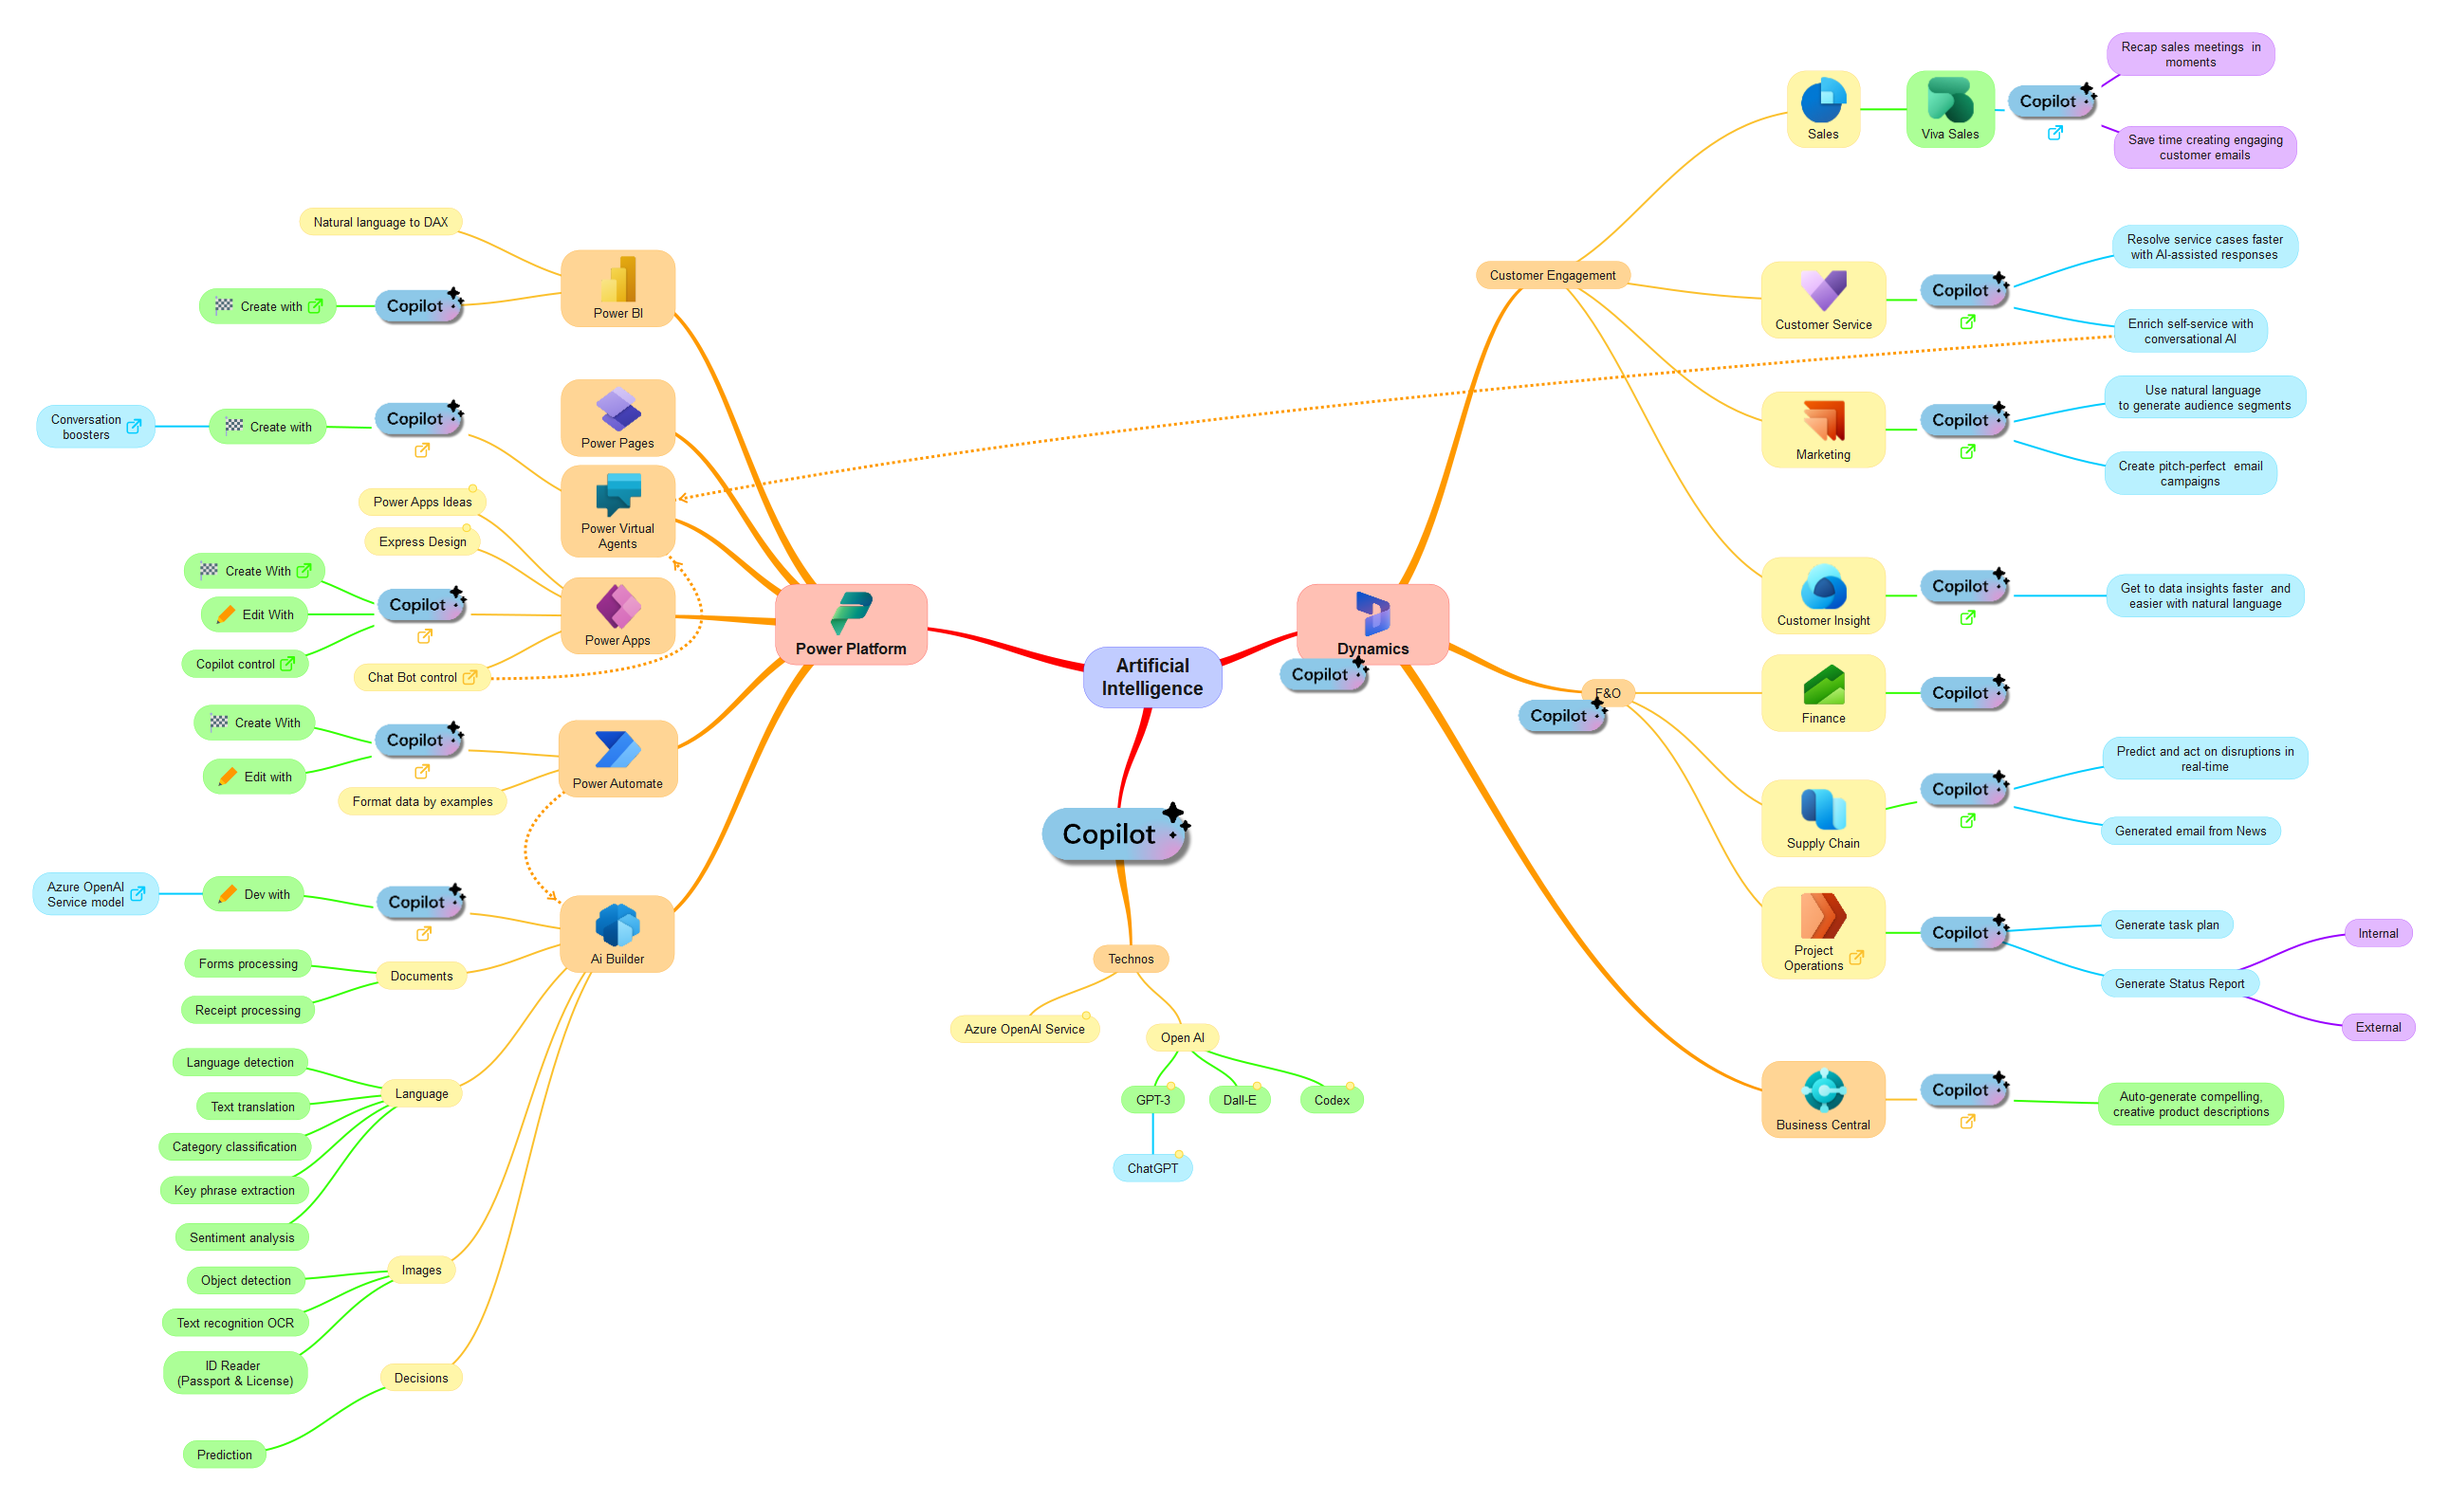
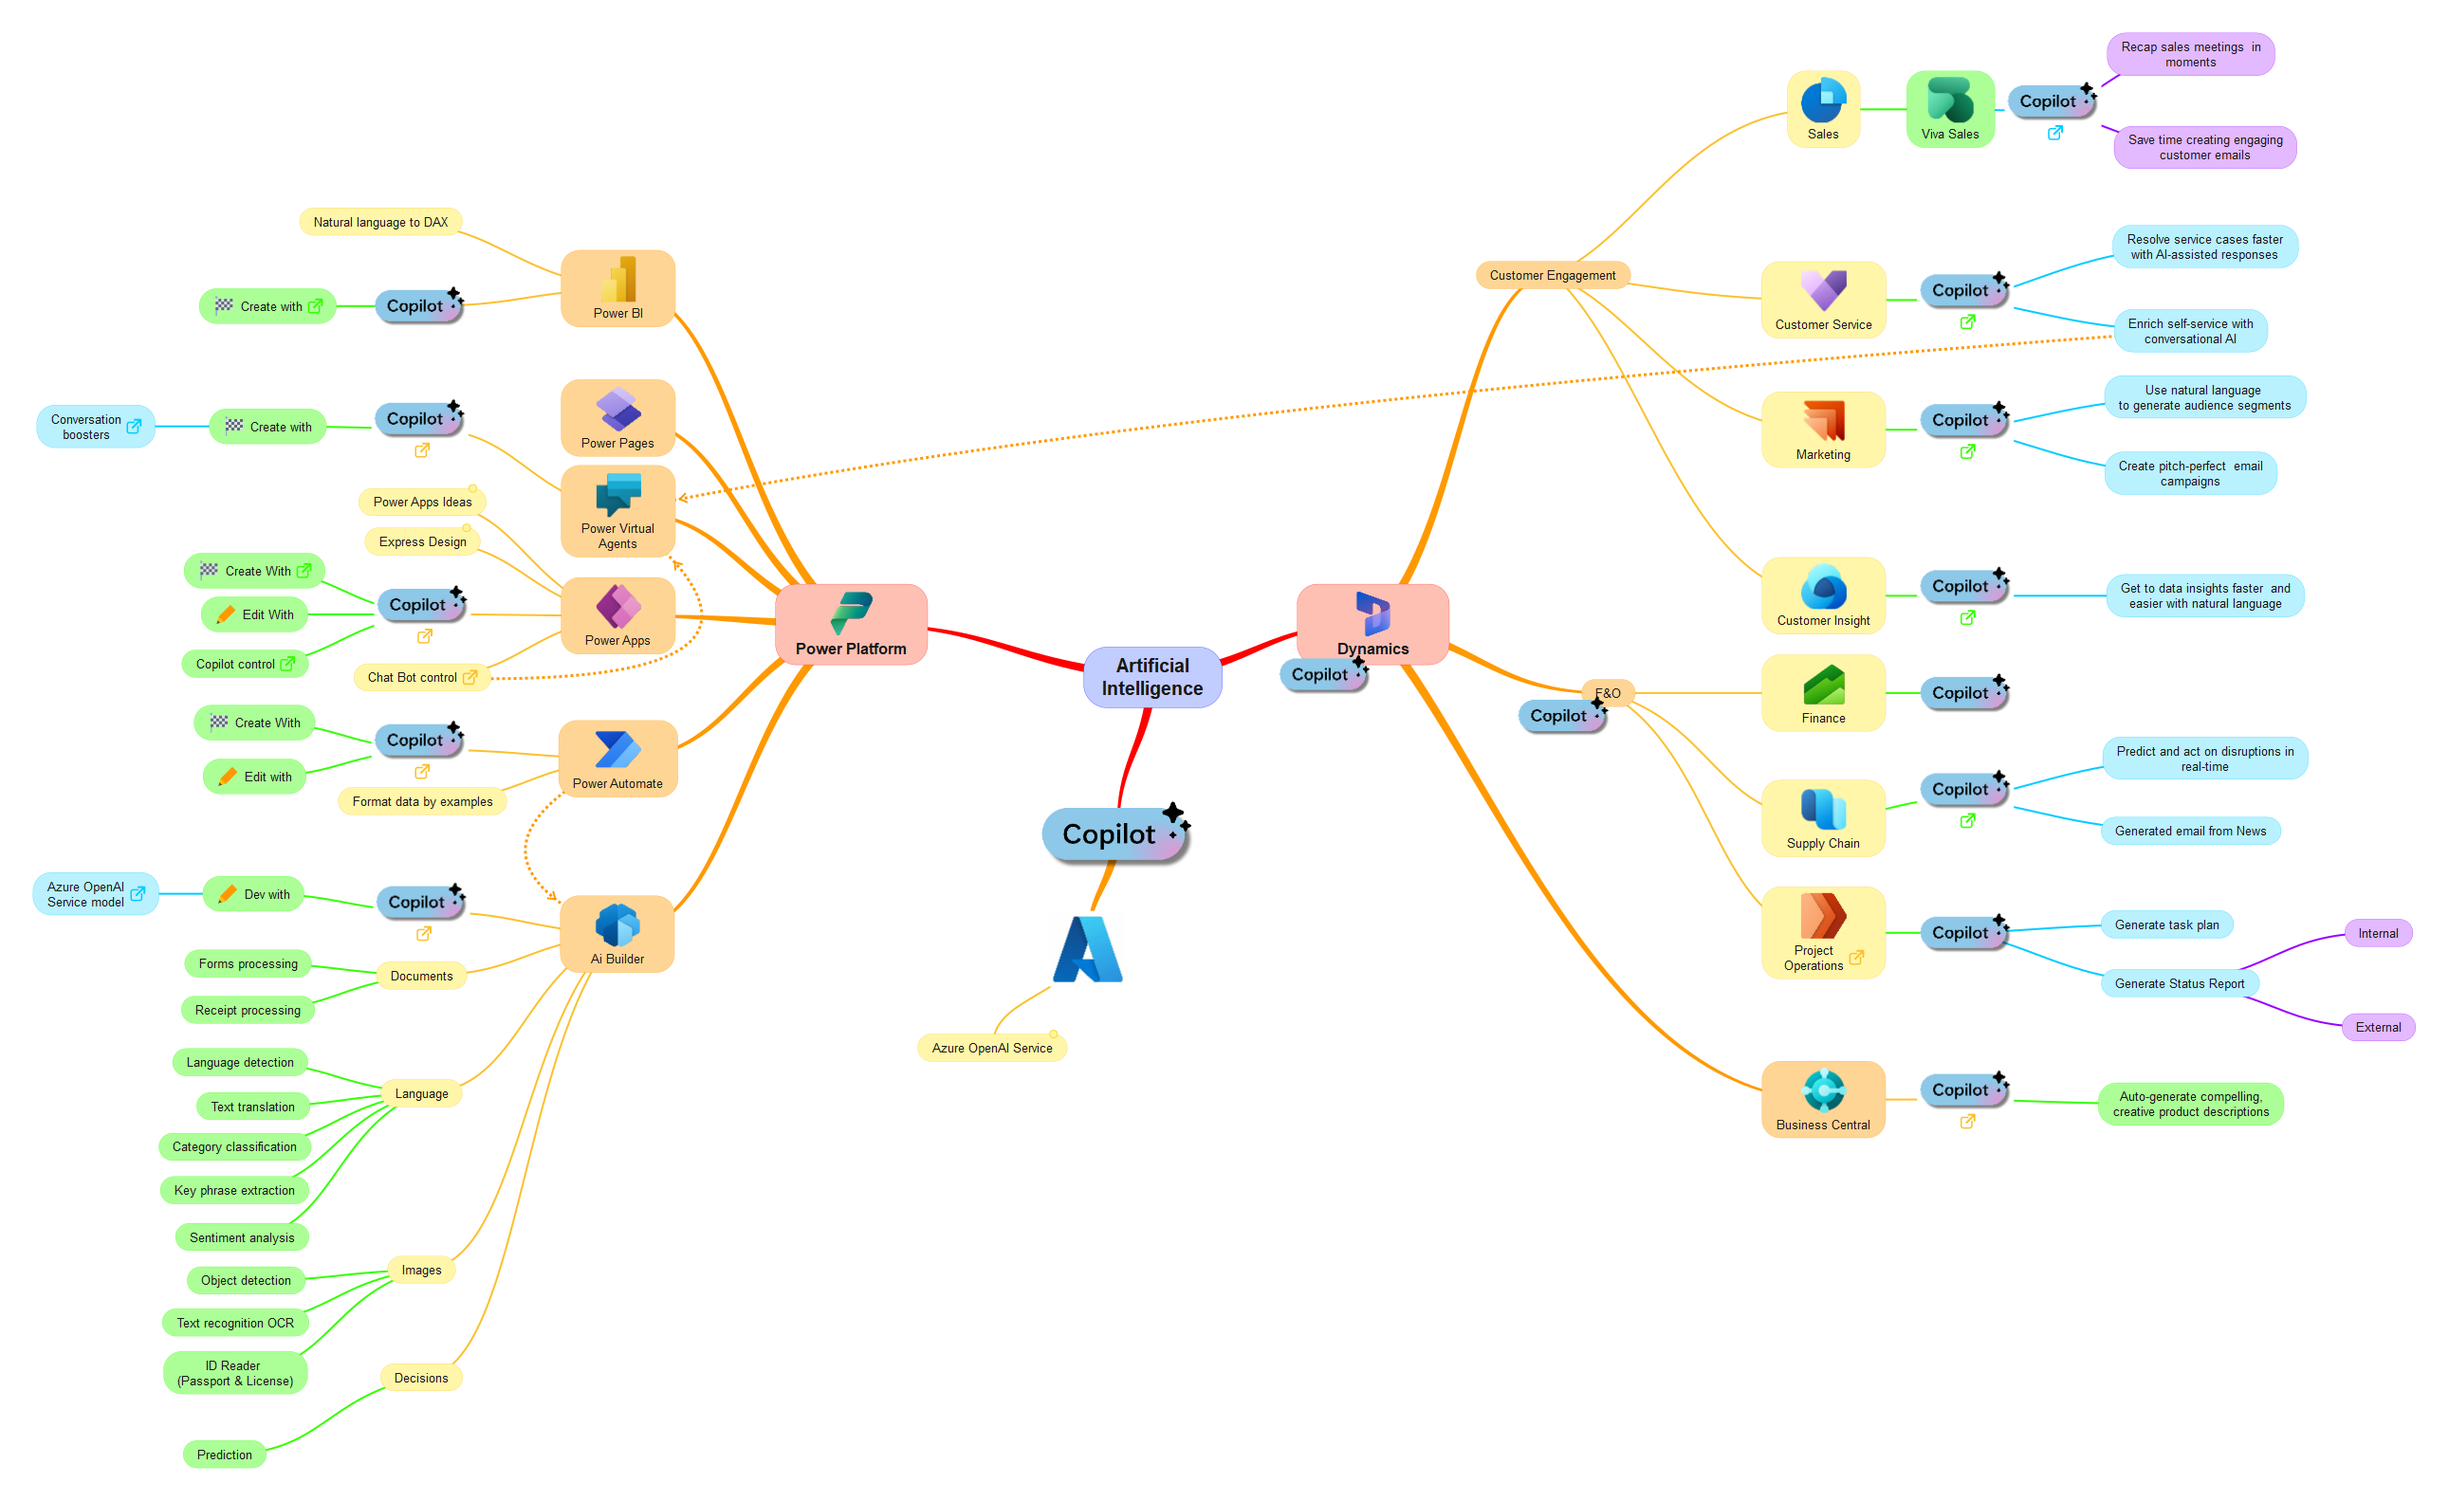
New Version

Changed region(s): [[0.3718, 0.5572, 0.5577, 0.8048]]

diff --git a/mindmap/copilot_with_bizapp/notes/note_3.html b/mindmap/copilot_with_bizapp/notes/note_3.html
@@ -1,17 +1,49 @@
 <html>
 <head>
 <title>
-Note - GPT-3
+Note - Azure OpenAI Service
 </title>
 <link rel="shortcut icon" type="image/png" href="../favicon.png"/>
 </head>
 <body>
 <h2>
-GPT-3
+Azure OpenAI Service
 </h2>
 <hr/>
 <p>
-Generate and Understand Text
+- Enterprise-grade security with RBAC and private networks
+<br/>
+
+<br/>
+- Deployed in your Azure subscription, secured by you, accessed only by you, and linked to your datasets/apps
+<br/>
+
+<br/>
+- Large, pretrained AI models to unlock new scenarios
+<br/>
+
+<br/>
+- Custom AI models fine-tuned with your data &amp; parameters
+<br/>
+
+<br/>
+- Built-in Responsible AI to detect to mitigate harmful use
+<br/>
+
+<br/>
+- Cost Analysis and Diagnostics
+<br/>
+
+<br/>
+- Customer Managed Key (CMK) Encryption
+<br/>
+
+<br/>
+- Regulatory Compliance (SOC2, HIPPA, ISO27001)
+<br/>
+
+<br/>
+- 99.9% SLA
 </p>
 </body>
 </html>

diff --git a/mindmap/copilot_with_bizapp/copilotsmmx.html b/mindmap/copilot_with_bizapp/copilotsmmx.html
@@ -29,11 +29,7 @@ Copilotsmmx
 <area shape="rect" coords="2067,857,2083,873" href="https://www.microsoft.com/en-us/videoplayer/embed/RWZlnc" target="_blank"/>
 <area shape="rect" coords="1949,1002,1965,1018" href="https://www.microsoft.com/en-us/videoplayer/embed/RW15m5N" target="_blank"/>
 <area shape="rect" coords="2067,1175,2083,1191" href="https://www.microsoft.com/en-us/videoplayer/embed/RWZdAr" target="_blank"/>
-<area shape="rect" coords="1227,1137,1243,1153" href="notes/note_3.html"/>
-<area shape="rect" coords="1235,1209,1251,1225" href="notes/note_4.html"/>
-<area shape="rect" coords="1416,1137,1432,1153" href="notes/note_5.html"/>
-<area shape="rect" coords="1317,1137,1333,1153" href="notes/note_6.html"/>
-<area shape="rect" coords="1137,1063,1153,1079" href="notes/note_7.html"/>
+<area shape="rect" coords="1103,1083,1119,1099" href="notes/note_3.html"/>
 </map>
 </body>
 </html>
